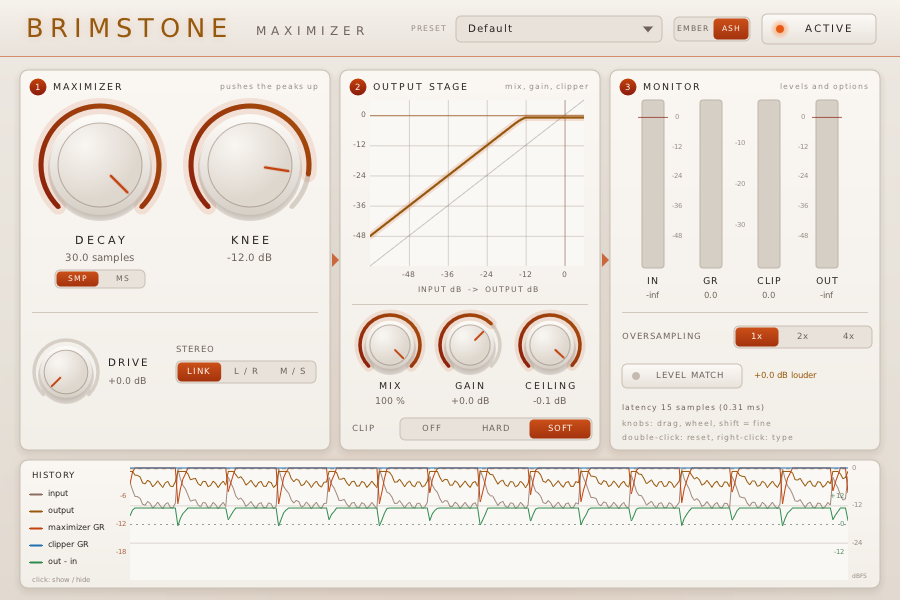
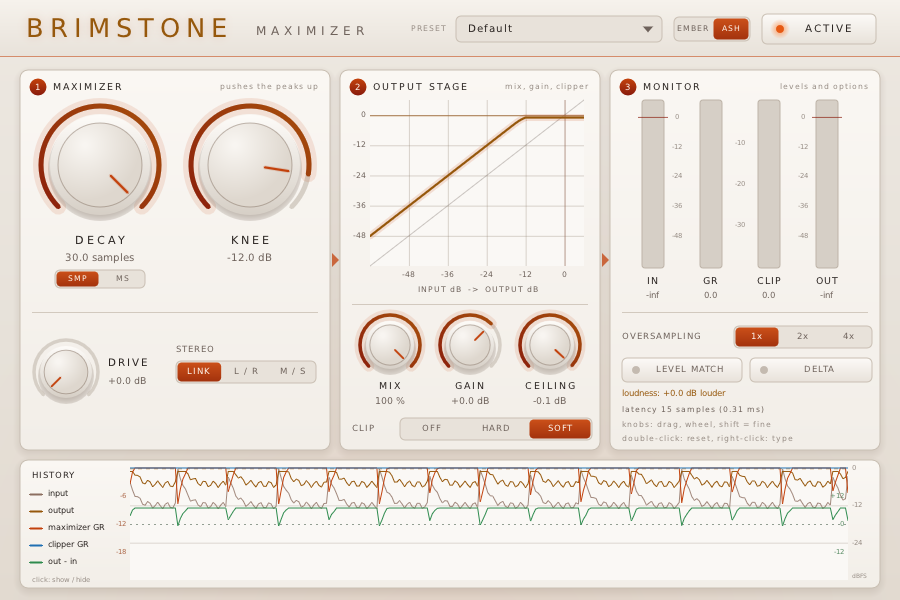
Delta: listen to what the maximizer and the clipper change
New parameter delta (after Bypass): output minus the same chain with
the maximizer gain held at its makeup and no clipping, downsampled by
its own filter so that the oversampling filters cancel.  10 ms
crossfade, Bypass has priority, computed only while on.  DELTA button
next to LEVEL MATCH.  Test 10 of test_dsp.

Changed region(s): [[0.6844, 0.6, 0.9644, 0.75]]

diff --git a/plugin/BrimstonePlugin.cpp b/plugin/BrimstonePlugin.cpp
@@ -21,7 +21,13 @@
  *
  * Signal flow (internal rate = host rate x oversampling):
  *   x -> upsample -> [drive -> maximizer core -> x ceiling] mixed with dry -> gain
- *     -> clip at ceiling -> downsample -> safety clamp -> level match -> bypass crossfade
+ *     -> clip at ceiling -> downsample -> safety clamp -> level match (or delta) -> bypass crossfade
+ *
+ * Delta: output minus the same chain with the maximizer gain held at its makeup (1 / knee) and
+ * no clipping, i.e. the delayed upsampled input x (1 + (drive ceiling / knee - 1) mix) gain,
+ * downsampled by its own filter (so the filters cancel): what the maximizer and the clipper
+ * change, without the makeup gain (no level match).  Computed only while Delta is on;
+ * crossfaded over 10 ms like Bypass, which has priority.
  *
  * Latency: the signal is always delayed by a fixed Lfix internal samples, and the gain by
  * Lfix - round(decay / 2), so that the decay can change without changing the latency.
@@ -393,6 +399,10 @@ protected:
             set(p, "Level match", "match", "");
             p.hints |= kParameterIsBoolean | kParameterIsInteger;
             break;
+        case kParamDelta:
+            set(p, "Delta", "delta", "");
+            p.hints |= kParameterIsBoolean | kParameterIsInteger;
+            break;
         case kParamMeterIn:   output(p, "Input level", "meter_in", "dB"); break;
         case kParamMeterGR:   output(p, "Gain reduction", "meter_gr", "dB"); break;
         case kParamMeterOut:  output(p, "Output level", "meter_out", "dB"); break;
@@ -471,6 +481,14 @@ protected:
         const float mixT = fParams[kParamMix] * 0.01f;
         const float outT = dbToGain(fParams[kParamGain]);
         const float bypassT = fParams[kParamBypass] > 0.5f ? 1.0f : 0.0f;
+        const float deltaT = fParams[kParamDelta] > 0.5f ? 1.0f : 0.0f;
+        const bool deltaOn = deltaT > 0.0f || fDelta > 0.0f;
+        if (deltaT > 0.0f && fDelta == 0.0f)
+        {
+            // the reference filter restarts (its state is stale), under the crossfade
+            fOsRef[0].reset();
+            fOsRef[1].reset();
+        }
         const float sm = fSmoothInt, smBase = fSmoothBase;
 
         const float* const inL = inputs[0];
@@ -491,7 +509,7 @@ protected:
             fOsCh[0].up(x[0], up[0]);
             fOsCh[1].up(x[1], up[1]);
 
-            float wetInt[2][4];
+            float wetInt[2][4], refInt[2][4];
             for (unsigned o = 0; o < os; ++o)
             {
                 fKnee += (kneeT - fKnee) * sm;
@@ -575,6 +593,9 @@ protected:
                     if (yc != y)
                         minClip = std::fmin(minClip, yc / y);
                     wetInt[c][o] = yc;
+                    // linear chain for delta: maximizer gain at its makeup, no clip
+                    if (deltaOn)
+                        refInt[c][o] = dry * (1.0f + (fDrive * fCeil / fKnee - 1.0f) * fMix) * fOut;
                 }
             }
 
@@ -594,19 +615,39 @@ protected:
             sumIn += static_cast<double>(x[0]) * x[0] + static_cast<double>(x[1]) * x[1];
             sumOut += static_cast<double>(p[0]) * p[0] + static_cast<double>(p[1]) * p[1];
 
+            // input delayed by the latency (bypass, delta)
+            const unsigned bw = fBasePos;
+            const unsigned br = (bw - fLatency) & fBaseMask;
+            fBase[0][bw] = x[0];
+            fBase[1][bw] = x[1];
+            fBasePos = (bw + 1) & fBaseMask;
+
+            // delta: difference with the linear chain (maximizer gain held at 1 / knee, no clip)
+            fDelta += (deltaT - fDelta) * smBase;
+            if (deltaT == 0.0f && fDelta < 1e-6f)
+                fDelta = 0.0f;
+            else if (deltaT == 1.0f && fDelta > 1.0f - 1e-6f)
+                fDelta = 1.0f;
+            float d[2] = { 0.0f, 0.0f };
+            if (deltaOn)
+            {
+                d[0] = p[0] - fOsRef[0].down(refInt[0]);
+                d[1] = p[1] - fOsRef[1].down(refInt[1]);
+            }
+
             if (match)
             {
                 const float comp = compStart + (compEnd - compStart) * (static_cast<float>(i + 1) / frames);
                 p[0] *= comp;
                 p[1] *= comp;
             }
+            if (fDelta > 0.0f)
+            {
+                p[0] += (d[0] - p[0]) * fDelta;
+                p[1] += (d[1] - p[1]) * fDelta;
+            }
 
             // bypass: input delayed by the latency, crossfaded
-            const unsigned bw = fBasePos;
-            const unsigned br = (bw - fLatency) & fBaseMask;
-            fBase[0][bw] = x[0];
-            fBase[1][bw] = x[1];
-            fBasePos = (bw + 1) & fBaseMask;
             fBypass += (bypassT - fBypass) * smBase;
             if (bypassT == 0.0f && fBypass < 1e-6f)
                 fBypass = 0.0f;
@@ -759,6 +800,8 @@ private:
         fOs.setFactor(os);
         fOsCh[0].setFactor(os);
         fOsCh[1].setFactor(os);
+        fOsRef[0].setFactor(os);
+        fOsRef[1].setFactor(os);
         setLatency(fLatency);
         fParams[kParamLatency] = static_cast<float>(fLatency);   // shown before the first run()
         resetState();
@@ -778,6 +821,8 @@ private:
         }
         fOsCh[0].reset();
         fOsCh[1].reset();
+        fOsRef[0].reset();
+        fOsRef[1].reset();
         fPos = fBasePos = 0;
 
         float dInt = fParams[kParamDecayUnit] > 0.5f
@@ -800,6 +845,7 @@ private:
         fMix = fParams[kParamMix] * 0.01f;
         fOut = dbToGain(fParams[kParamGain]);
         fBypass = fParams[kParamBypass] > 0.5f ? 1.0f : 0.0f;
+        fDelta = fParams[kParamDelta] > 0.5f ? 1.0f : 0.0f;
         fSmoothInt = static_cast<float>(1.0 - std::exp(-1.0 / (0.01 * sr * os)));
         fSmoothBase = static_cast<float>(1.0 - std::exp(-1.0 / (0.01 * sr)));
         fMeterIn = fMeterOut = 0.0f;
@@ -816,6 +862,7 @@ private:
 
     Oversampler fOs;          // only holds the factor
     Oversampler fOsCh[2];
+    Oversampler fOsRef[2];    // downsampling of the linear chain (delta)
     std::vector<float> fSig[2], fDry[2], fBase[2];
     Detector fDet[2];
     int fActive = 0;
@@ -824,7 +871,7 @@ private:
     unsigned fMask = 0, fBaseMask = 0, fPos = 0, fBasePos = 0;
     unsigned fLfix = 0, fLatency = 0;
     int fConfigKey = -1;
-    float fKnee = 1.0f, fDrive = 1.0f, fCeil = 1.0f, fMix = 1.0f, fOut = 1.0f, fBypass = 0.0f;
+    float fKnee = 1.0f, fDrive = 1.0f, fCeil = 1.0f, fMix = 1.0f, fOut = 1.0f, fBypass = 0.0f, fDelta = 0.0f;
     float fSmoothInt = 0.0f, fSmoothBase = 0.0f;
     float fMeterIn = 0.0f, fMeterOut = 0.0f, fMeterRel = 1.0f, fMeterClip = 1.0f;
     RecentPeak fRecentIn, fRecentOut, fRecentGR, fRecentClip;

diff --git a/plugin/BrimstoneUI.cpp b/plugin/BrimstoneUI.cpp
@@ -171,7 +171,8 @@ static const Rect kStereo  = { 176, 361, 140, 22 };
 static const Rect kGraph   = { 348, 96, 244, 200 };
 static const Rect kClip    = { 400, 418, 192, 22 };
 static const Rect kOvers   = { 734, 326, 138, 22 };
-static const Rect kMatch   = { 622, 364, 120, 24 };
+static const Rect kMatch   = { 622, 358, 120, 24 };
+static const Rect kDelta   = { 750, 358, 122, 24 };
 static const Rect kPreset  = { 456, 16, 206, 26 };   // drop-down box; the list opens below it
 static const float kMenuItemH = 22.0f;     // preset list: item
 static const float kMenuHeaderH = 20.0f;   // section title (FACTORY, USER)
@@ -193,7 +194,7 @@ static const float kMeterY = 100.0f, kMeterH = 168.0f, kMeterW = 22.0f;
 
 // hover zones with a tooltip (knobs are handled separately)
 enum {
-    kZoneUnit = 0, kZoneStereo, kZoneGraph, kZoneClip, kZoneOvers, kZoneMatch, kZonePreset,
+    kZoneUnit = 0, kZoneStereo, kZoneGraph, kZoneClip, kZoneOvers, kZoneMatch, kZoneDelta, kZonePreset,
     kZoneBypass, kZoneIn, kZoneGR, kZoneClipMeter, kZoneOut, kZoneHistory, kZoneTheme, kNumZones
 };
 
@@ -216,6 +217,9 @@ static const Zone kZones[kNumZones] = {
       "Runs the processing at 2x or 4x the sample rate: less aliasing, more latency and CPU." },
     { kMatch, "LEVEL MATCH",
       "Lowers the output by the loudness gained, to compare with Bypass at equal level." },
+    { kDelta, "DELTA",
+      "Listen to what the maximizer and the clipper change: the output minus the same chain "
+      "without reduction nor clipping (makeup gain removed). Bypass has priority." },
     { kPreset, "PRESETS",
       "Click to choose a preset: factory presets, then yours (saved for all projects on this "
       "computer). Wheel: next / previous. A * means a setting was changed since it was loaded." },
@@ -448,6 +452,7 @@ protected:
         if (kBypass.contains(x, y)) { toggle(kParamBypass); return true; }
         if (kTheme.contains(x, y)) { setTheme(static_cast<int>(segmentAt(kTheme, x, BrimstonePrefs::kThemeCount))); return true; }
         if (kMatch.contains(x, y)) { toggle(kParamMatch); return true; }
+        if (kDelta.contains(x, y)) { toggle(kParamDelta); return true; }
         if (kUnit.contains(x, y)) { setDecayUnit(x > kUnit.x + kUnit.w * 0.5f ? 1 : 0); return true; }
         if (kStereo.contains(x, y)) { setOnce(kParamStereo, segmentAt(kStereo, x, 3)); return true; }
         if (kClip.contains(x, y)) { setOnce(kParamClip, segmentAt(kClip, x, 3)); return true; }
@@ -1291,17 +1296,22 @@ private:
         led(kMatch.x + 14, kMatch.y + kMatch.h * 0.5f, match);
         label(kMatch.x + kMatch.w * 0.5f + 8, kMatch.y + kMatch.h * 0.5f, 10, match ? fT->onAccent : fT->dim,
               ALIGN_CENTER | ALIGN_MIDDLE, "LEVEL MATCH", 1);
-        char loud[40];
-        std::snprintf(loud, sizeof(loud), "%+.1f dB louder", fValues[kParamMeterLoud]);
-        label(kMatch.x + kMatch.w + 12, kMatch.y + kMatch.h * 0.5f, 10, fT->gold, ALIGN_LEFT | ALIGN_MIDDLE, loud);
+        const bool delta = fValues[kParamDelta] > 0.5f;
+        button(kDelta, delta, nullptr);
+        led(kDelta.x + 14, kDelta.y + kDelta.h * 0.5f, delta);
+        label(kDelta.x + kDelta.w * 0.5f + 8, kDelta.y + kDelta.h * 0.5f, 10, delta ? fT->onAccent : fT->dim,
+              ALIGN_CENTER | ALIGN_MIDDLE, "DELTA", 1);
+        char loud[48];
+        std::snprintf(loud, sizeof(loud), "loudness: %+.1f dB louder", fValues[kParamMeterLoud]);
+        label(kSecMon.x + 12, 394, 10, fT->gold, ALIGN_LEFT | ALIGN_MIDDLE, loud);
 
         char lat[64];
         const double sr = getSampleRate() > 0.0 ? getSampleRate() : 44100.0;
         std::snprintf(lat, sizeof(lat), "latency %.0f samples (%.2f ms)", fValues[kParamLatency],
                       fValues[kParamLatency] * 1000.0 / sr);
-        label(kSecMon.x + 12, 408, 9, fT->dim, ALIGN_LEFT | ALIGN_MIDDLE, lat, 0.5f);
-        label(kSecMon.x + 12, 424, 9, fT->faint, ALIGN_LEFT | ALIGN_MIDDLE, "knobs: drag, wheel, shift = fine", 0.5f);
-        label(kSecMon.x + 12, 438, 9, fT->faint, ALIGN_LEFT | ALIGN_MIDDLE,
+        label(kSecMon.x + 12, 410, 9, fT->dim, ALIGN_LEFT | ALIGN_MIDDLE, lat, 0.5f);
+        label(kSecMon.x + 12, 425, 9, fT->faint, ALIGN_LEFT | ALIGN_MIDDLE, "knobs: drag, wheel, shift = fine", 0.5f);
+        label(kSecMon.x + 12, 439, 9, fT->faint, ALIGN_LEFT | ALIGN_MIDDLE,
               "double-click: reset, right-click: type", 0.5f);
     }
 

diff --git a/tests/test_dsp.cpp b/tests/test_dsp.cpp
@@ -13,6 +13,8 @@
  * 6. Presets: every preset gives a finite output under the ceiling.
  * 7. Clipper preset: output == clip(input x gain) at 1x.
  * 8. Meters: maximizer and clipper reductions, history peaks.
+ * 10. Delta: zero when nothing is clipped nor reduced; with the Clipper preset, exactly what the
+ *     clipper removes; Bypass has priority.
  * 9. Denormals: FTZ / DAZ are switched on in run() only, the FPU state of the caller is
  *    restored (the gain in silence is measured by tests/bench_cpu.cpp).
  */
@@ -59,6 +61,7 @@ static void reference(const std::vector<float>& x, const std::vector<float>& det
 struct Settings {
     float values[kPresetParamCount];
     float bypass = 0.0f;
+    float delta = 0.0f;
 };
 
 static Settings originalSettings(float decay, float knee, int stereo)
@@ -81,6 +84,7 @@ static uint32_t process(const Settings& s, const std::vector<float>& L, const st
     for (int i = 0; i < kPresetParamCount; ++i)
         p.setParameterValue(i, s.values[i]);
     p.setParameterValue(kParamBypass, s.bypass);
+    p.setParameterValue(kParamDelta, s.delta);
     p.activate();
 
     const size_t N = L.size();
@@ -355,6 +359,68 @@ int main()
 #else
         check(true, "not an SSE processor: nothing to test");
 #endif
+    }
+
+    // 10. delta ---------------------------------------------------------------------------------
+    std::printf("10. delta (output minus the linear chain)\n");
+    {
+        int k = 0;
+        while (std::strcmp(kBrimstonePresets[k].name, "Clipper") != 0)
+            ++k;
+        Settings s;
+        for (int i = 0; i < kPresetParamCount; ++i)
+            s.values[i] = kBrimstonePresets[k].values[i];
+        s.values[kParamOversampling] = 0.0f;
+        s.delta = 1.0f;
+        const uint32_t lat = process(s, L, R, oL, oR);
+        const float g = dbToGain(s.values[kParamGain]), c = dbToGain(s.values[kParamCeiling]);
+        float err = 0.0f, most = 0.0f;
+        for (size_t i = lat; i < N; ++i)
+        {
+            const float x = L[i - lat] * g;
+            const float y = std::fmin(std::fmax(x, -c), c) - x;   // what the clipper removes
+            err = std::max(err, fabsf(oL[i] - y));
+            most = std::max(most, fabsf(y));
+        }
+        char buf[160];
+        std::snprintf(buf, sizeof(buf), "clipper 1x: delta == clip(x) - x, max error %.1e (largest %.2f)", err, most);
+        check(err < 1e-6f && most > 0.1f, buf);
+
+        // mix 0, clip off: the chain is linear, the delta is the filters' error only
+        for (const int os : { 0, 2 })
+        {
+            s.values[kParamClip] = kClipOff;
+            s.values[kParamOversampling] = (float)os;
+            process(s, L, R, oL, oR);
+            float peak = 0.0f;
+            for (size_t i = 0; i < N; ++i)
+                peak = std::max(peak, std::max(fabsf(oL[i]), fabsf(oR[i])));
+            std::snprintf(buf, sizeof(buf), "mix 0, clip off, %dx: delta peak %.1e", 1 << os, peak);
+            check(peak < 1e-6f, buf);
+        }
+
+        // Default, signal below the knee: the maximizer gain stays at its makeup, delta ~ 0
+        Settings def;
+        for (int i = 0; i < kPresetParamCount; ++i)
+            def.values[i] = kBrimstonePresets[0].values[i];
+        def.delta = 1.0f;
+        std::vector<float> Q(N);
+        for (size_t i = 0; i < N; ++i)
+            Q[i] = 0.05f * sinf(0.02f * i);   // -26 dBFS < knee -12 dB
+        process(def, Q, Q, oL, oR);
+        float peak = 0.0f;
+        for (size_t i = 4410; i < N; ++i)   // after the 10 ms crossfade and the attack
+            peak = std::max(peak, fabsf(oL[i]));
+        std::snprintf(buf, sizeof(buf), "default, -26 dBFS sine (below the knee): delta peak %.1e", peak);
+        check(peak < 1e-5f, buf);
+
+        // bypass has priority
+        def.bypass = 1.0f;
+        const uint32_t lb = process(def, L, R, oL, oR);
+        bool same = true;
+        for (size_t i = lb; i < N; ++i)
+            same = same && oL[i] == L[i - lb] && oR[i] == R[i - lb];
+        check(same, "bypass and delta: output == input delayed, exactly");
     }
 
     std::printf("%s\n", gFailures ? "FAILED" : "all tests passed");

diff --git a/plugin/BrimstoneParams.hpp b/plugin/BrimstoneParams.hpp
@@ -22,6 +22,7 @@ enum BrimstoneParam {
     kParamOversampling,// 0 = 1x, 1 = 2x, 2 = 4x
     kParamMatch,       // level-matched listening (0/1)
     kParamBypass,      // host bypass
+    kParamDelta,       // listen to the difference: output minus the input at the linear gain (0/1)
     // outputs
     kParamMeterIn,     // input peak, dBFS
     kParamMeterGR,     // gain reduction below makeup, dB
@@ -57,6 +58,7 @@ static const BrimstoneRange kBrimstoneRanges[kParamCount] = {
     {   0.0f,   2.0f,   0.0f },   // oversampling
     {   0.0f,   1.0f,   0.0f },   // match
     {   0.0f,   1.0f,   0.0f },   // bypass
+    {   0.0f,   1.0f,   0.0f },   // delta
     { -60.0f,   6.0f, -60.0f },   // meter in
     { -40.0f,   0.0f,   0.0f },   // meter GR
     { -60.0f,   6.0f, -60.0f },   // meter out
@@ -70,7 +72,8 @@ static const BrimstoneRange kBrimstoneRanges[kParamCount] = {
 };
 
 // ------------------------------------------------------------------------------------------------
-// Factory presets: values of the input parameters kParamDecay .. kParamMatch (bypass excluded).
+// Factory presets: values of the input parameters kParamDecay .. kParamMatch (bypass and delta,
+// monitoring switches, excluded).
 
 static const int kPresetParamCount = kParamBypass;
 

diff --git a/LISEZMOI.md b/LISEZMOI.md
@@ -39,6 +39,7 @@ entrée → suréchantillonnage → Drive → cœur → × Ceiling, mélange ave
 | Gain | -24..+12 dB après le mélange, avant l'écrêtage : pousse les crêtes au-dessus du plafond (s'appelait Output) |
 | Oversampling | 1x, 2x, 4x (demi-bandes FIR 47 coefficients, ~80 dB de réjection) |
 | Level match | compense le gain de sonie (RMS ~1,5 s) pour comparer avec Bypass à niveau égal ; l'écart est affiché (« LOUDER ») |
+| Delta | fait entendre ce que le maximiseur et l'écrêteur changent : sortie moins la même chaîne sans réduction ni écrêtage (gain du maximiseur tenu à 1/knee, mêmes filtres de suréchantillonnage, donc sans le gain de compensation) ; sans Level match ; fondu de 10 ms ; Bypass prioritaire ; non enregistré dans les préréglages |
 | Bypass | paramètre Bypass déclaré à l'hôte ; entrée retardée de la latence, fondu de 10 ms |
 
 Latence déclarée à l'hôte, fixe pour une unité et un facteur donnés : 15 échantillons (échantillons, 1x),
@@ -66,7 +67,7 @@ droite dans l'ordre du signal (flèches entre elles) :
    « OFF: mix at 0 % » quand Mix est à 0 % ;
 2. **OUTPUT STAGE** : courbe de transfert, Mix, Gain, Ceiling, Clip ;
 3. **MONITOR** : vu-mètres IN, GR (maximiseur, 0 quand Mix = 0 %), CLIP (écrêteur), OUT ;
-   Oversampling, Level match et écart de sonie, latence.
+   Oversampling, Level match, Delta, écart de sonie, latence.
 
 **Historique** (~7 s, un point toutes les 25 ms, crêtes des 30 dernières ms, donc aucune crête
 perdue entre deux points), cinq courbes fines sur une même bande, chacune masquable d'un clic sur
@@ -144,7 +145,8 @@ dans `C:\Program Files\Common Files\VST3\`, `brimstone_maximizer.clap` dans `...
 resynchronisé après rechargement d'un préréglage). Correctif à proposer à DPF.
 
 ## Vérifications
-- `tests/test_dsp.cpp` (28 cas, dont l'état du FPU rétabli après `run`) : original, plafond (1x/2x/4x, Hard/Soft), Bypass exact,
+- `tests/test_dsp.cpp` (33 cas, dont l'état du FPU rétabli après `run` et Delta : nul sur une
+  chaîne linéaire en 1x et 4x, égal à ce que retire l'écrêteur avec Clipper, Bypass prioritaire) : original, plafond (1x/2x/4x, Hard/Soft), Bypass exact,
   latence en 2x/4x (écart ≤ 1,6e-5 sur un sinus de 1 kHz), changements de Decay, préréglages,
   écrêteur pur, mesures (réductions du maximiseur et de l'écrêteur, crêtes de l'historique).
 - Banc de CPU (`tests/bench_cpu.cpp`, hors `build.sh`, commande en tête du fichier) : ns par

diff --git a/AMELIORATIONS.md b/AMELIORATIONS.md
@@ -62,6 +62,13 @@ A. **Dénormaux** (robustesse, CPU) : sur un silence, l'enveloppe (`follow`) dé
 B. **Écoute de la différence** (« Delta ») : bouton qui fait entendre sortie − entrée (retardée de
    la latence), ce que le maximiseur et l'écrêteur retirent ; courant sur ce type de plugin, peu
    de code (l'entrée retardée existe déjà pour Bypass).
+   **Fait** (2026-11-25) : paramètre `delta` (après Bypass : seuls les indices des sorties
+   changent, l'automation des projets 1.1.0 reste en place ; l'état est enregistré par symbole).
+   Sortie moins la chaîne linéaire (gain du maximiseur tenu à 1/knee, sans écrêtage), celle-ci
+   sous-échantillonnée par son propre filtre : un premier essai avec l'entrée retardée à la
+   fréquence de l'hôte laissait en 4x la coupure des filtres (0,33 de crête sur du bruit blanc).
+   Calculée seulement quand Delta est actif. Sortie hors Delta inchangée (7 préréglages ×
+   1x/2x/4x ; seuls des écarts de 5e-35 sur des sorties de 1e-28). Test 10 de `test_dsp`.
 C. **Douceur de l'écrêteur Soft réglable** (corrige le défaut connu de `LISEZMOI.md`) : paramètre
    Knee du Clip (seuil de 60 % aujourd'hui, en dur) ; à 90-95 %, Default n'arrondirait plus ~1 dB
    en permanence. Change le son de Default seulement si on change sa valeur (décision).
